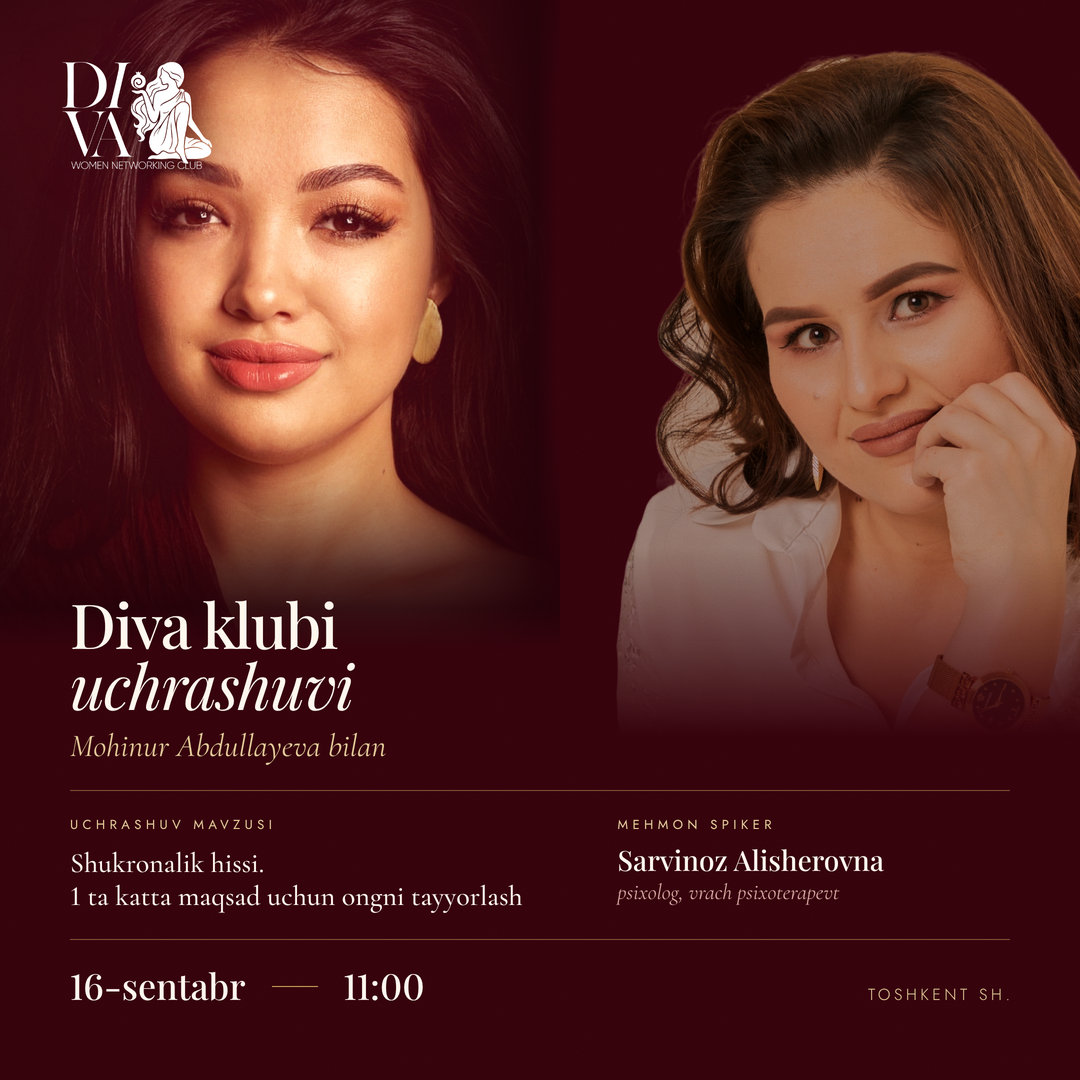
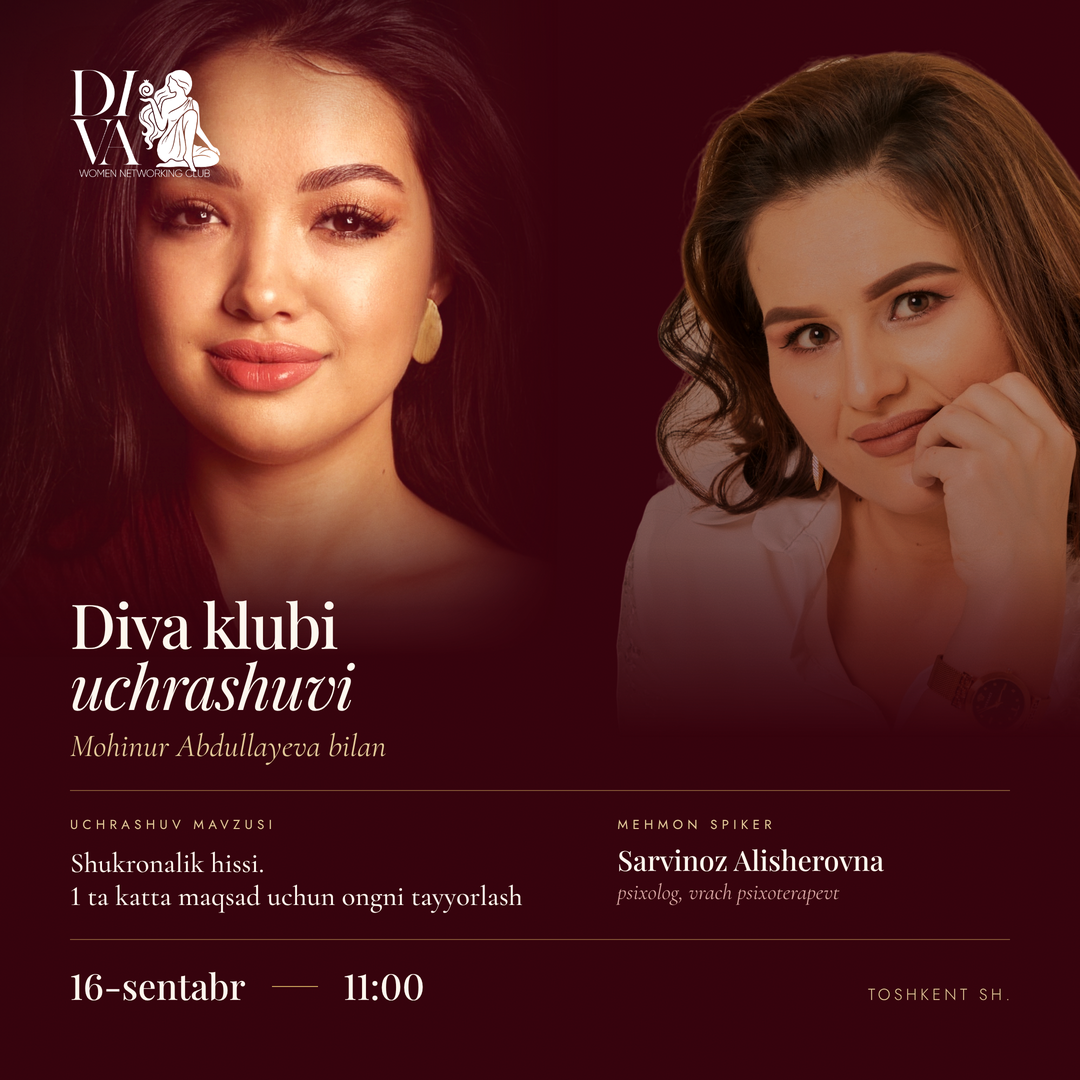
Polish direction B: story safe area, rule pinning, optical margins
Moves the 9:16 title and logo clear of the top band a Story's platform
UI covers, paying for it from the gap rhythm rather than the figures.

Pins the gold rule to an integer height with the mask sized to the
SVG's own box: contain on a sub-pixel box was letting the raster round
down, so the post's only ornament started a different distance inside
the margin in each ratio. Adds the title's optical indent, spreads the
horizon off the square's dead centre, and lets both women be cut by the
side edges at 1:1 instead of just missing them.

Claude-Session: https://claude.ai/code/session_01CJcxAKvhDYH9Z96uyo456t

Changed region(s): [[0.55, 0.3972, 0.9778, 0.6111], [0.0611, 0.0611, 0.2139, 0.1833], [0.2139, 0.5194, 0.3972, 0.5806]]

diff --git a/diva-club-posts/variant-b.html b/diva-club-posts/variant-b.html
@@ -20,6 +20,7 @@
   font-family: var(--serif);
 
   --m: 84px;          /* content margin */
+  --mt: var(--m);     /* top inset of the type block (9:16 clears the Story UI) */
   --ttl: 90px;        /* display size */
   --host: 47px;
   --lbl: 15px;
@@ -37,34 +38,46 @@
   --g-rule: 48px;     /* host  -> rule */
   --g-block: 26px;    /* rule  -> block */
   --g-cols: 36px;     /* block -> rule */
+  --g-when: calc(var(--g-block) * 0.9);  /* gold rule -> date row */
   --colgap: 56px;
+  --rule-h: 9px;      /* gold rule: integer height keeps the mask raster exact */
 }
 
+/* 9:16 is read as a Story: platform chrome eats roughly the top 140px and the
+   bottom 250px of the 1080x1920 frame. The type block therefore starts at 150px
+   (title cap-line lands at 164) and the whole cream field is a touch deeper, so
+   nothing that carries information sits under the UI. Both faces finish well
+   above y=1670. */
 html[data-r="9x16"] .canvas {
-  --m: 96px;
+  --m: 96px; --mt: 150px;
   --ttl: 126px; --host: 60px; --lbl: 17px; --topic: 44px;
   --name: 42px; --role: 30px; --date: 64px; --logo: 156px;
-  --horizon: 1015px;
-  --fw1: 870px; --fx1: -285px; --fy1: 1005px;
-  --fw2: 800px; --fx2: 583px;  --fy2: 1034px;
-  --g-host: 22px; --g-rule: 50px; --g-block: 36px; --g-cols: 44px;
+  --horizon: 1035px;
+  --fw1: 870px; --fx1: -285px; --fy1: 1025px;
+  --fw2: 800px; --fx2: 583px;  --fy2: 1054px;
+  --g-host: 22px; --g-rule: 40px; --g-block: 36px; --g-cols: 36px;
+  --g-when: 23px; --rule-h: 12px;
 }
 
 html[data-r="1x1"] .canvas {
   --m: 76px;
   --ttl: 67px; --host: 36px; --lbl: 13px; --topic: 28px;
   --name: 25px; --role: 21px; --date: 41px; --logo: 104px;
-  --horizon: 544px;
-  --fw1: 620px; --fx1: -32px; --fy1: 552px;
-  --fw2: 555px; --fx2: 561px; --fy2: 578px;
+  --horizon: 562px;
+  /* Square: at this scale both women only just missed the side edges (20px and
+     18px of blush) — a tangent that reads as an accident. Nudged outward so each
+     is genuinely cropped by her own edge, as they are in 4:5 and 9:16. */
+  --fw1: 620px; --fx1: -72px; --fy1: 570px;
+  --fw2: 555px; --fx2: 585px; --fy2: 596px;
   --g-host: 13px; --g-rule: 30px; --g-block: 18px; --g-cols: 22px;
   --colgap: 44px;
+  --rule-h: 8px;
 }
 
 /* 9:16 has the height for a stacked info block: the topic runs the full
    column width and the guest credit sits under it, flush right, pointing at
    the figure on the right. 4:5 and 1:1 run the same two items as columns. */
-html[data-r="9x16"] .cols { flex-direction: column; align-items: stretch; gap: 38px; }
+html[data-r="9x16"] .cols { flex-direction: column; align-items: stretch; gap: 30px; }
 
 /* ---------------------------- ground ---------------------------- */
 .horizon {
@@ -88,7 +101,7 @@ html[data-r="9x16"] .cols { flex-direction: column; align-items: stretch; gap: 3
 /* ---------------------------- type ---------------------------- */
 .head {
   position: absolute;
-  left: var(--m); right: var(--m); top: var(--m);
+  left: var(--m); right: var(--m); top: var(--mt);
   z-index: 2;
 }
 
@@ -101,6 +114,10 @@ html[data-r="9x16"] .cols { flex-direction: column; align-items: stretch; gap: 3
   font-size: var(--ttl);
   line-height: 0.98;
   letter-spacing: -0.02em;
+  /* optical margin: Playfair's cap D carries ~0.025em of side bearing, so the
+     first line would otherwise sit 3px inside the stem of "uchrashuvi" below it.
+     text-indent only touches the first line, which is exactly the one that needs it. */
+  text-indent: -0.025em;
   color: var(--maroon-rich);
 }
 
@@ -166,13 +183,22 @@ html[data-r="9x16"] .cols { flex-direction: column; align-items: stretch; gap: 3
   color: rgba(147, 6, 31, 0.9);
 }
 
-/* the post's single ornament: a hairline rule with one anchor dot, in gold */
+/* The post's single ornament: a hairline rule with one anchor dot, in gold.
+   Geometry is pinned to an integer --rule-h (so the mask rasterises on whole
+   device pixels and the drawn line keeps the same hairline weight in every
+   ratio); the width then follows the SVG's own 600:16 box, and mask-size
+   100% 100% fills it exactly instead of letting `contain` round the raster
+   down and float the artwork inside the element.
+   The artwork's line starts 23.25/600 in from its own left edge, so the
+   element is pulled left by that much: without it the only ornament in the
+   post sits 10-23px inside the margin and breaks the left column. */
 .dot-rule {
   margin-top: var(--g-cols);
-  width: calc(var(--date) * 7.2);
-  height: calc(var(--date) * 7.2 * 16 / 600);
-  -webkit-mask: url("assets/orn/mark-rule-dot.svg") left center/contain no-repeat;
-  mask: url("assets/orn/mark-rule-dot.svg") left center/contain no-repeat;
+  margin-left: calc(var(--rule-h) * -1.453);
+  width: calc(var(--rule-h) * 37.5);
+  height: var(--rule-h);
+  -webkit-mask: url("assets/orn/mark-rule-dot.svg") left center/100% 100% no-repeat;
+  mask: url("assets/orn/mark-rule-dot.svg") left center/100% 100% no-repeat;
   background: var(--gold-deep);
 }
 
@@ -181,7 +207,7 @@ html[data-r="9x16"] .cols { flex-direction: column; align-items: stretch; gap: 3
   display: flex;
   align-items: baseline;
   gap: calc(var(--date) * 0.6);
-  margin-top: calc(var(--g-block) * 0.9);
+  margin-top: var(--g-when);
 }
 .w-date {
   flex: 0 0 auto;

diff --git a/diva-club-posts/variant-c.html b/diva-club-posts/variant-c.html
@@ -106,7 +106,13 @@
 .sarv::after {
   content: "";
   position: absolute; inset: 0;
-  background: linear-gradient(200deg, rgba(208,140,134,0.34), rgba(174,98,100,0.52));
+  /* bottom-weighted so the white blouse is pulled into the maroon family while
+     her face keeps the same warmth and modelling as the hero */
+  background: linear-gradient(198deg,
+      rgba(210,144,136,0.32) 0%,
+      rgba(198,126,120,0.40) 48%,
+      rgba(164,84,86,0.60) 74%,
+      rgba(132,52,60,0.78) 100%);
   mix-blend-mode: multiply;
   -webkit-mask-image: url("assets/cutout/sarvinoz-cut-soft.png");
           mask-image: url("assets/cutout/sarvinoz-cut-soft.png");
@@ -238,7 +244,7 @@
    information stack is lifted clear of the second. The portrait rides up with
    it so the type still lands below her chin, on a dark field. */
 html[data-r="9x16"] .canvas {
-  --hz: 118%; --hx: -57px; --hy: -312px;
+  --hz: 118%; --hx: -57px; --hy: -268px;
   --sz: 165%; --sx: 7px; --sy: 10px;
   --t-title: 116px; --t-with: 46px; --t-theme: 44px; --t-name: 38px;
   --t-role: 29px; --t-date: 48px; --t-city: 23px;
@@ -254,11 +260,11 @@ html[data-r="9x16"] .hero > .scrim {
       rgba(34,1,8,0.50) 0%,
       rgba(34,1,8,0.12) 7%,
       rgba(34,1,8,0.00) 18%,
-      rgba(34,1,8,0.00) 33.6%,
-      rgba(34,1,8,0.24) 36.2%,
-      rgba(34,1,8,0.64) 38.4%,
-      rgba(34,1,8,0.90) 40.4%,
-      #34020c 42.6%,
+      rgba(34,1,8,0.00) 35.9%,
+      rgba(40,1,10,0.24) 38.0%,
+      rgba(45,2,11,0.62) 39.8%,
+      rgba(50,2,12,0.90) 41.7%,
+      #34020c 43.8%,
       #34020c 100%);
 }
 html[data-r="9x16"] .title { line-height: 0.94; }
@@ -304,37 +310,51 @@ html[data-r="1x1"] .canvas {
   --t-name: 28px; --t-role: 22px; --t-date: 36px; --t-city: 16px;
   --col: 100%;
 }
-html[data-r="1x1"] .hero { inset: 0 auto auto 0; width: var(--seam); height: var(--band); }
-/* bottom edge -> ground */
+/* Both free edges are dissolved with a real alpha mask rather than a painted
+   ramp: the ground shows through itself, so there is nothing to colour-match
+   and the grain stays continuous across the transition. */
+html[data-r="1x1"] .hero {
+  inset: 0 auto auto 0;
+  width: var(--seam);
+  height: var(--band);
+  -webkit-mask-image:
+    linear-gradient(180deg, #000 410px, rgba(0,0,0,0.88) 466px,
+      rgba(0,0,0,0.60) 516px, rgba(0,0,0,0.30) 566px,
+      rgba(0,0,0,0.10) 610px, rgba(0,0,0,0) 658px),
+    linear-gradient(90deg, #000 392px, rgba(0,0,0,0.80) 444px,
+      rgba(0,0,0,0.46) 486px, rgba(0,0,0,0.18) 522px, rgba(0,0,0,0) 558px);
+  -webkit-mask-composite: source-in;
+  mask-image:
+    linear-gradient(180deg, #000 410px, rgba(0,0,0,0.88) 466px,
+      rgba(0,0,0,0.60) 516px, rgba(0,0,0,0.30) 566px,
+      rgba(0,0,0,0.10) 610px, rgba(0,0,0,0) 658px),
+    linear-gradient(90deg, #000 392px, rgba(0,0,0,0.80) 444px,
+      rgba(0,0,0,0.46) 486px, rgba(0,0,0,0.18) 522px, rgba(0,0,0,0) 558px);
+  mask-composite: intersect;
+}
+/* only the masthead vignette survives here — the edges are the mask's job */
 html[data-r="1x1"] .hero > .scrim {
-  background: linear-gradient(180deg,
-      rgba(34,1,8,0.34) 0px,
-      rgba(34,1,8,0.00) 96px,
-      rgba(34,1,8,0.00) 424px,
-      rgba(34,1,8,0.16) 478px,
-      rgba(34,1,8,0.46) 524px,
-      rgba(34,1,8,0.76) 568px,
-      rgba(34,1,8,0.93) 608px,
-      #34020c 650px);
+  background: linear-gradient(180deg, rgba(20,0,5,0.40) 0%, rgba(20,0,5,0) 20%);
 }
-/* left edge quieted for the masthead, right edge -> ground */
-html[data-r="1x1"] .hero > .side {
-  background: linear-gradient(90deg,
-      rgba(34,1,8,0.26) 0px,
-      rgba(34,1,8,0.00) 150px,
-      rgba(34,1,8,0.00) 396px,
-      rgba(34,1,8,0.26) 452px,
-      rgba(34,1,8,0.62) 498px,
-      rgba(34,1,8,0.90) 536px,
-      #34020c 558px);
-}
-html[data-r="1x1"] .mark { width: 150px; top: 62px; left: 62px; }
+html[data-r="1x1"] .hero > .side { background: linear-gradient(90deg, rgba(20,0,5,0.30) 0%, rgba(20,0,5,0) 26%); }
+/* +8px so the lockup's own transparent margin lands its ink on the type column */
+html[data-r="1x1"] .mark { width: 150px; top: 70px; left: 70px; }
 /* she stands past the photo block's baseline and dissolves before the type */
 html[data-r="1x1"] .sarv {
   top: 0; bottom: auto; right: 0; left: 540px;
   width: auto; height: 760px;
   -webkit-mask-image: linear-gradient(180deg, #000 72%, rgba(0,0,0,0) 97%);
           mask-image: linear-gradient(180deg, #000 72%, rgba(0,0,0,0) 97%);
+}
+/* the blouse is a much larger share of this frame — pull it down harder */
+html[data-r="1x1"] .sarv > img { filter: saturate(0.95) contrast(1.08) brightness(0.74); }
+html[data-r="1x1"] .sarv::after {
+  background: linear-gradient(197deg,
+      rgba(206,138,130,0.34) 0%,
+      rgba(192,118,112,0.44) 44%,
+      rgba(154,74,78,0.62) 64%,
+      rgba(122,44,54,0.80) 84%,
+      rgba(110,36,48,0.86) 100%);
 }
 html[data-r="1x1"] .r1 { margin-top: 26px; }
 html[data-r="1x1"] .r2 { margin-top: 24px; }
